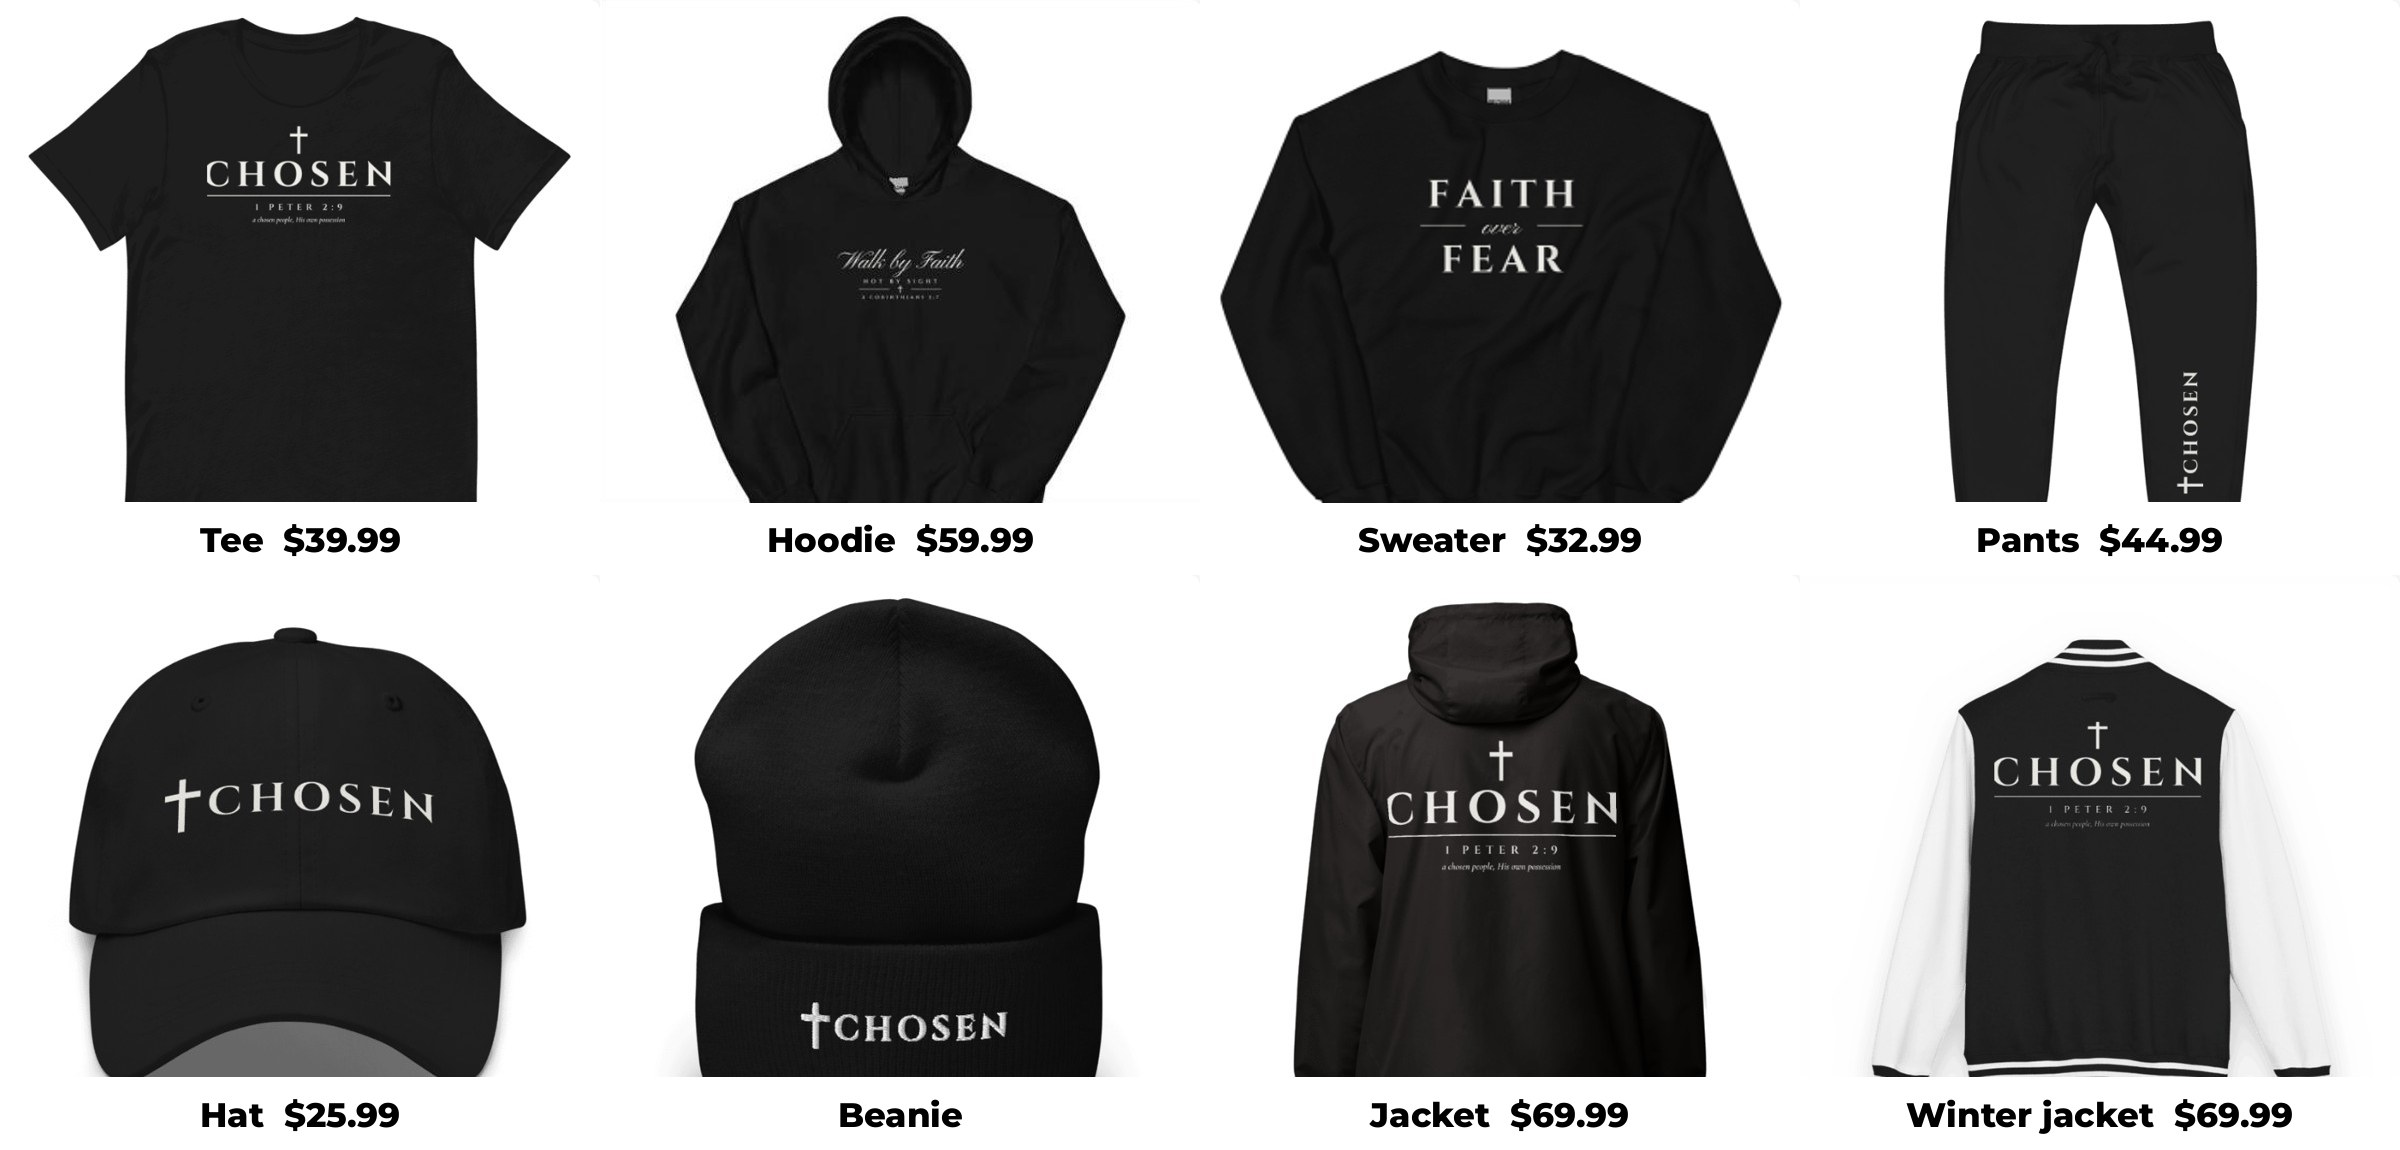
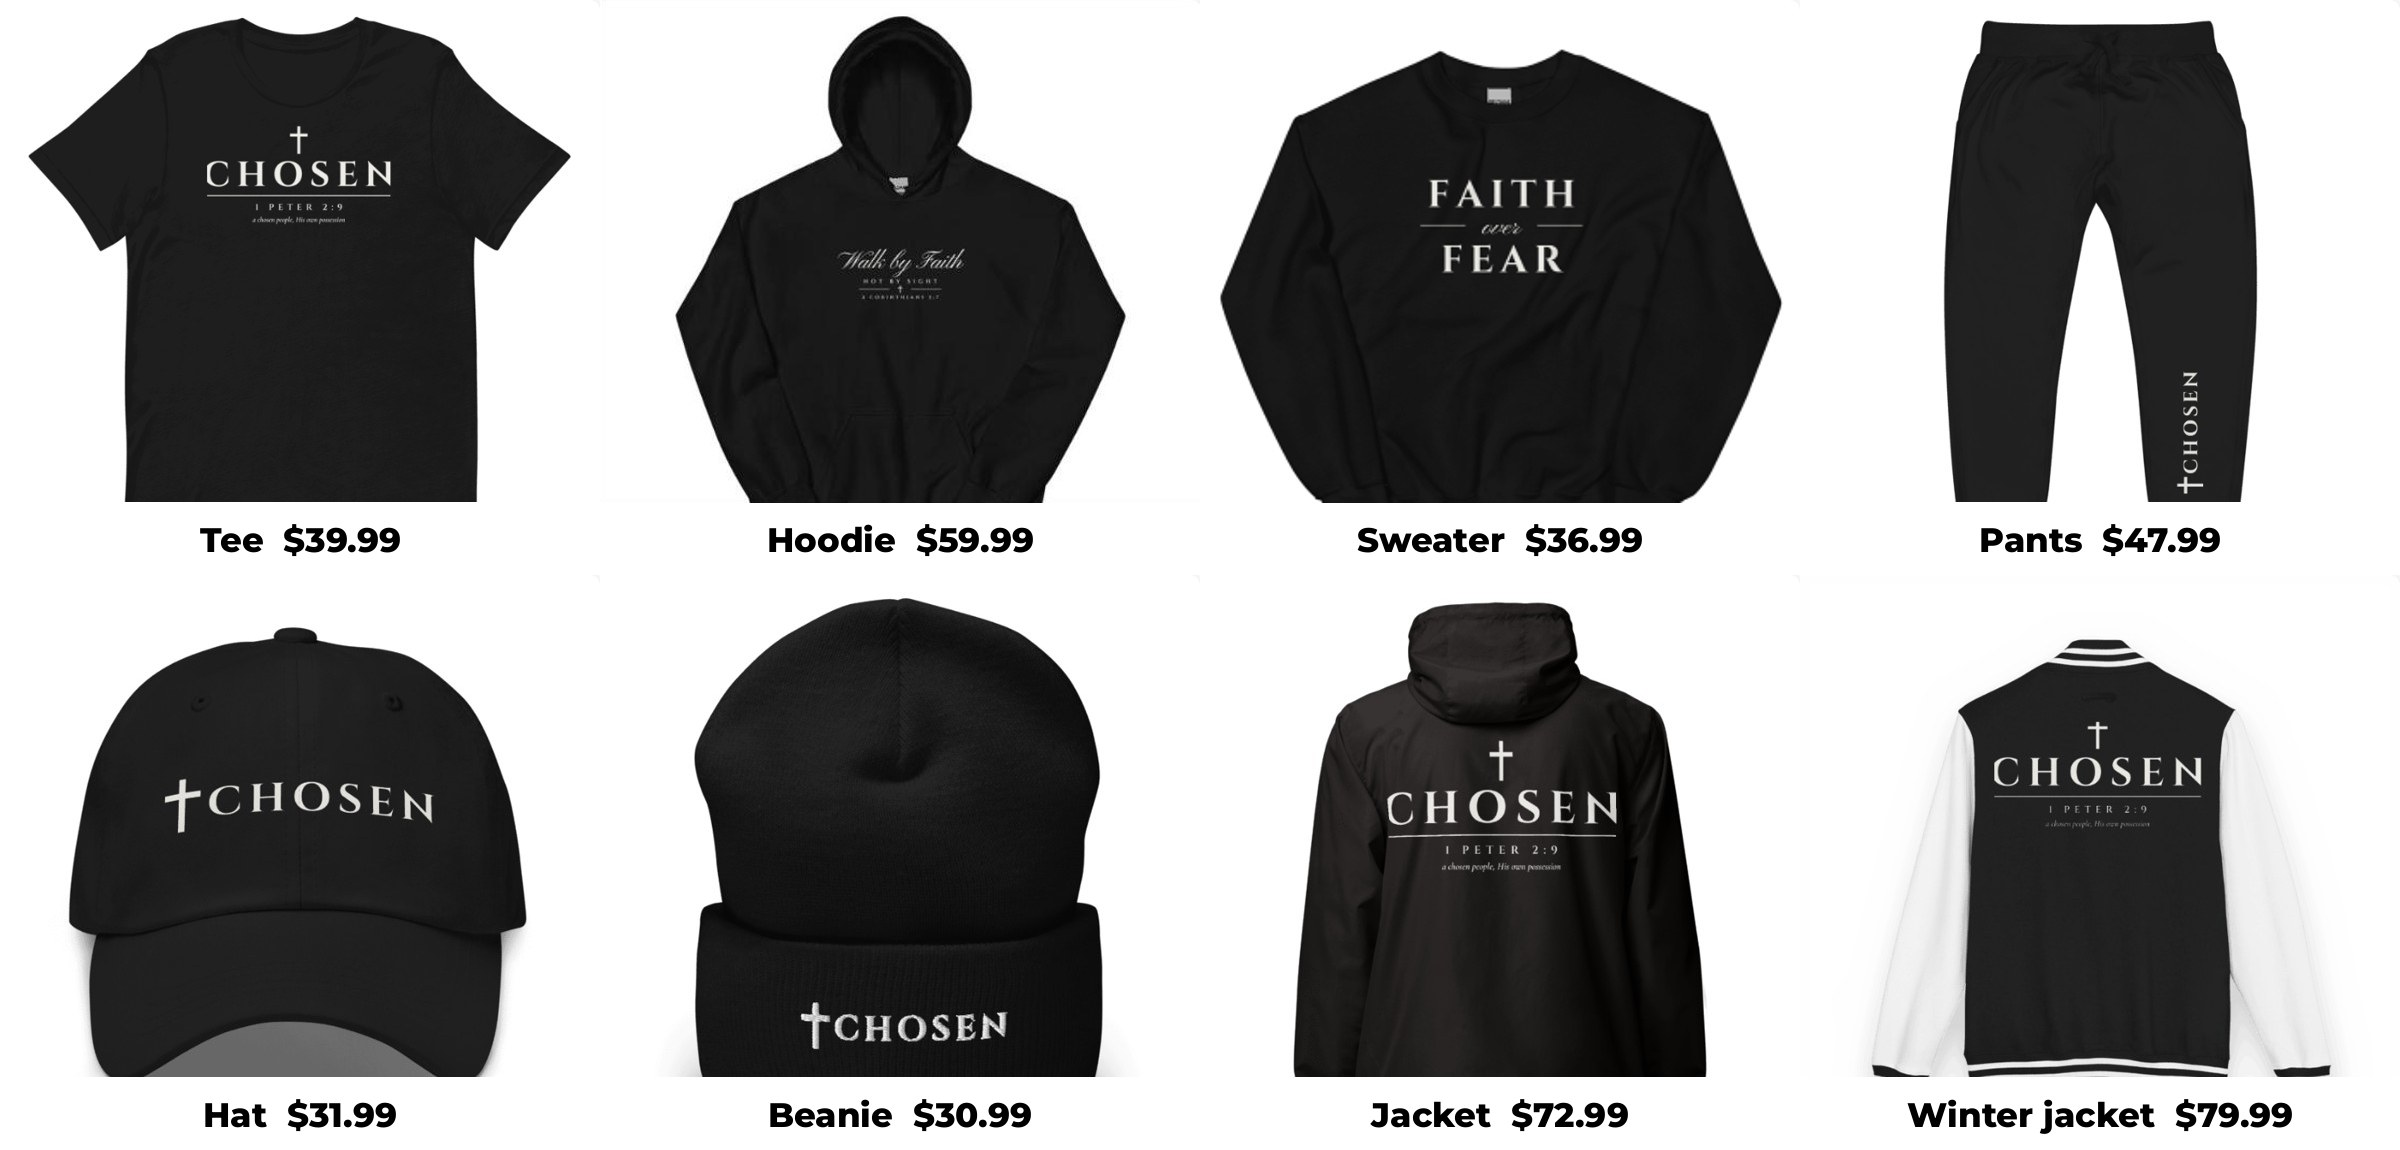
Chosen: prices for 16+ profit
Claude-Session: https://claude.ai/code/session_014WCkJgqUvSahTB2QMTtNBn

diff --git a/studio/chosen/PRICES.md b/studio/chosen/PRICES.md
@@ -1,0 +1,14 @@
+# Chosen prices (Michael 2026-11-27: at least $16 profit per item)
+Profit = price - 2.9% - $0.30 (Shopify card fee) - Printful cost (smallest size). Customer pays shipping.
+2XL and up cost Printful a few dollars more: set those sizes that much higher so they also keep $16+.
+
+| Item | Printful template | Printful cost | Price | Profit |
+|---|---|---|---|---|
+| Tee (CHOSEN 1 Pet 2:9) | 111106153 | 11.92 | 39.99 | ~26.60 |
+| Hoodie (Walk by Faith) | 111106205 | 22.63 | 59.99 | ~35.30 |
+| Sweater (Faith over Fear) | 111106252 | 19.17 | 36.99 | ~16.45 |
+| Pants (leg CHOSEN) | 111106343 | 29.98 | 47.99 | ~16.30 |
+| Dad hat | 111106292 | 14.02 | 31.99 | ~16.75 |
+| Beanie | 111107135 | 13.05 | 30.99 | ~16.75 |
+| Jacket (windbreaker) | 111106514 | 53.76 | 72.99 | ~16.30 |
+| Winter jacket (letterman) | 111106595 | 60.65 | 79.99 | ~16.70 |
